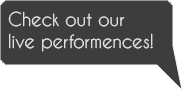
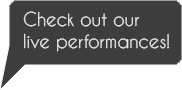
news-page, about-page, media-page added

Changed region(s): [[0.0, 0.0, 1.0, 1.0]]

diff --git a/Hemsida C3LOOPS/Demo-slide.html b/Hemsida C3LOOPS/Demo-slide.html
@@ -5,7 +5,7 @@
 	<meta http-equiv="Content-Type" content="text/html; charset=utf-8">
 	<title>C3LOOPS</title>
 	<link rel="shortcut icon" href="grafik/c3loops/icon.ico" />
-	<link rel=StyleSheet href="Stilmall.css" TYPE="text/css"></link>
+	<link rel=StyleSheet href="stilmall.css" TYPE="text/css"></link>
 
 <script type="text/javascript" src="js/jquery-1.3.1.min.js"></script>
 <script type="text/javascript" src="js/jquery.scrollTo.js"></script>
@@ -64,7 +64,7 @@ function resizePanel() {
 			<img id="Image-Maps_9201210161051085" src="grafik/c3loops/webshop.png" usemap="#Image-Maps_9201210161051085" border="0" width="306" height="594" alt="" />
 <map id="_Image-Maps_9201210161051085" name="Image-Maps_9201210161051085">
 <area shape="poly" coords="3,593,12,592,28,592,45,590,59,590,83,585,100,579,113,573,133,566,152,556,170,547,190,530,202,518,221,507,233,492,244,476,257,459,265,444,275,427,282,406,290,386,296,364,299,348,305,322,305,308,302,282,304,268,302,255,301,234,297,224,292,207,286,185,278,172,271,158,260,138,248,117,236,104,221,89,209,74,193,62,181,55,159,42,139,30,117,18,102,14,78,8,62,3,42,0,22,0,8,2,0,0,0,34,16,36,37,35,61,39,79,45,102,51,120,58,141,71,161,83,181,99,198,112,209,132,225,151,238,164,252,197,259,222,264,248,266,275,268,297,267,324,262,352,254,374,252,396,236,426,227,443,212,457,195,474,180,488,163,509,147,517,119,531,103,540,74,548,58,553,40,555,23,556,0,557," href="http://www.image-maps.com/" alt="" title=""   />
- <span> <img src="grafik/c3loops/popup-webshop.png"> </span>
+ 
 </map>
 			</div> 
 			
@@ -110,16 +110,19 @@ function resizePanel() {
 		<div id="item2" class="item">
 			<a name="item2"></a>
 			<a href="#item1" class="panel"><img src="grafik/c3loops/back.png"></a>
+			
 		</div>
 		
 		<div id="item3" class="item">
 			<a name="item3"></a>
 			<a href="#item1" class="panel"><img src="grafik/c3loops/back.png"></a>
+			<div id="about-page"> <img src="grafik/c3loops/about-page.png"> </div>
 		</div>
 
 		<div id="item4" class="item">
 			<a name="item4"></a>
 			 <a href="#item1" class="panel"><img src="grafik/c3loops/back.png"></a>
+			<div id="news-page"> <img src="grafik/c3loops/news-page.png"> </div>
 		</div>
 		
 		<div id="item5" class="item">
@@ -130,6 +133,7 @@ function resizePanel() {
 		<div id="item6" class="item">
 		<a name="item6"></a>
 		<a href="#item1" class="panel"><img src="grafik/c3loops/back.png"></a>
+		<div id="media-page"> <img src="grafik/c3loops/media-page.png"> </div>
 	</div>
 </div>
 

diff --git a/Hemsida C3LOOPS/stilmall.css b/Hemsida C3LOOPS/stilmall.css
@@ -75,7 +75,7 @@ display: none;
 
  display:block;
     position:absolute;
-    top:-5em; left:-8em; width:10em;
+    top:-4em; left:6em; width:10em;
 }
 	
 .about
@@ -278,6 +278,32 @@ margin-left: -643px;
 margin-top: -370px;
 }
 
+#news-page {
+width: 637px;
+height: 635px;
+left: 350%;
+top: 50%;
+position: absolute;
+margin-left: -317px;
+margin-top: -317px;
+}
 
+#about-page {
+width: 420px;
+height: 567px;
+left: 250%;
+top: 50%;
+position: absolute;
+margin-left: -210px;
+margin-top: -283px;
+}
 
-
+#media-page {
+width: 968px;
+height: 582px;
+left: 550%;
+top: 50%;
+position: absolute;
+margin-left: -484px;
+margin-top: -291px;
+}
